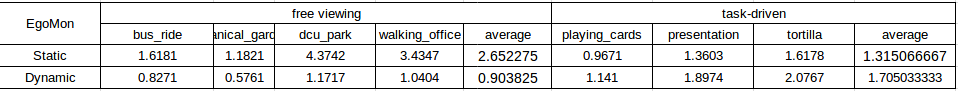
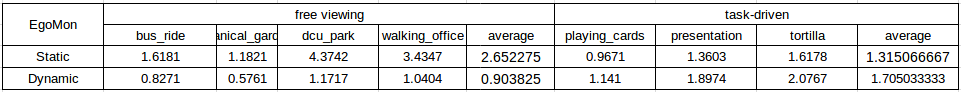
results

diff --git a/_posts/2000-01-05-results.md b/_posts/2000-01-05-results.md
@@ -9,19 +9,26 @@ fa-icon: line-chart
 We evaluated SalGAN with and without our temporal regularization on different datasets:
 
 Performance on DHF1K
+
+<center>
 <div style="display:table-cell; vertical-align:middle; text-align:center">
   <img src="./assets/DHF1K_results.png">
 </div>
+</center>
 
 Performance on DHF1K and EgoMon
+<center>
 <div style="display:table-cell; vertical-align:middle; text-align:center">
   <img src="./assets/NSS_results.png">
 </div>
+</center>
 
 Analytical Results on the 2 types of EgoMon recordings.
+<center>
 <div style="display:table-cell; vertical-align:middle; text-align:center">
   <img src="./assets/EgoMon_results.png">
 </div>
+</center>
 
 
 
